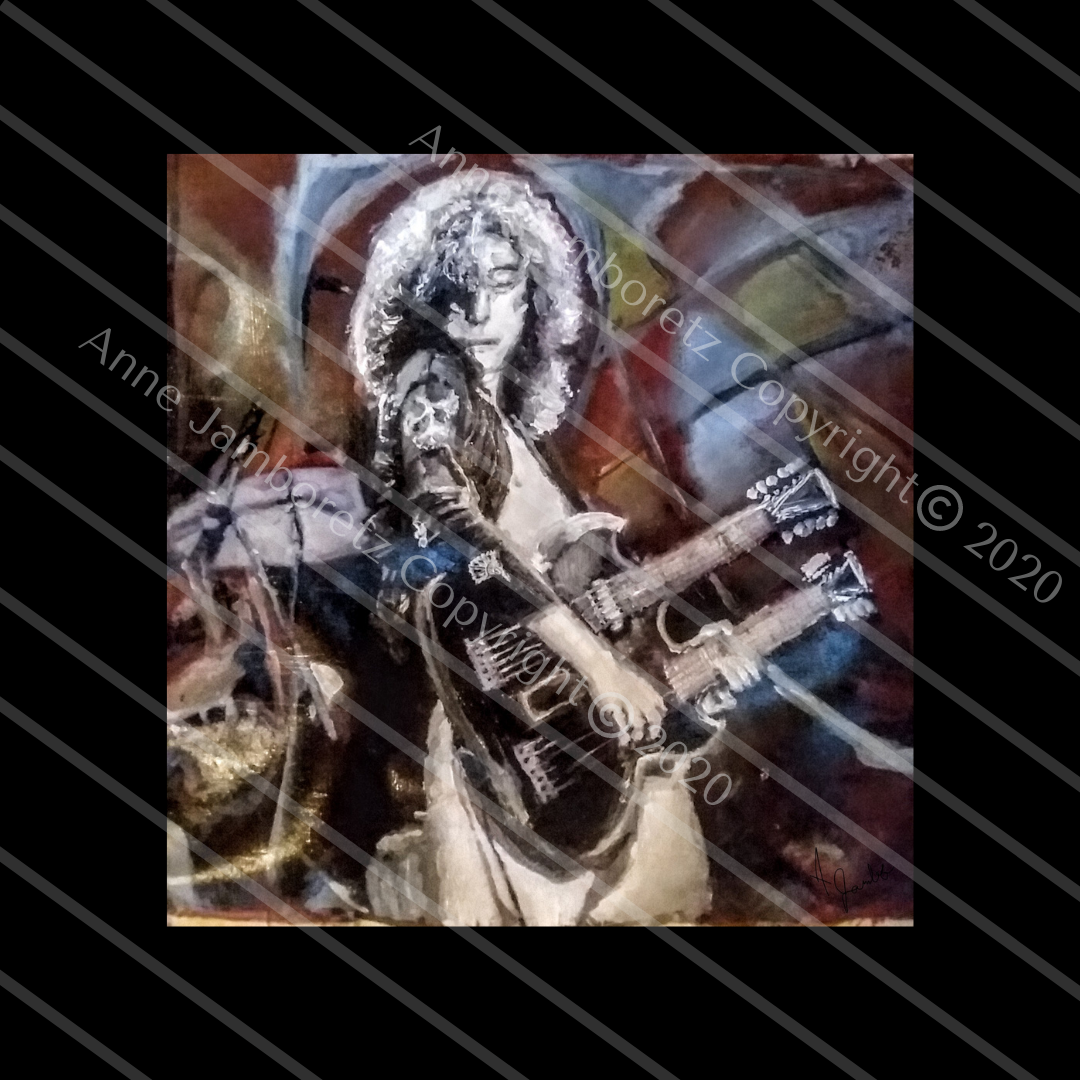
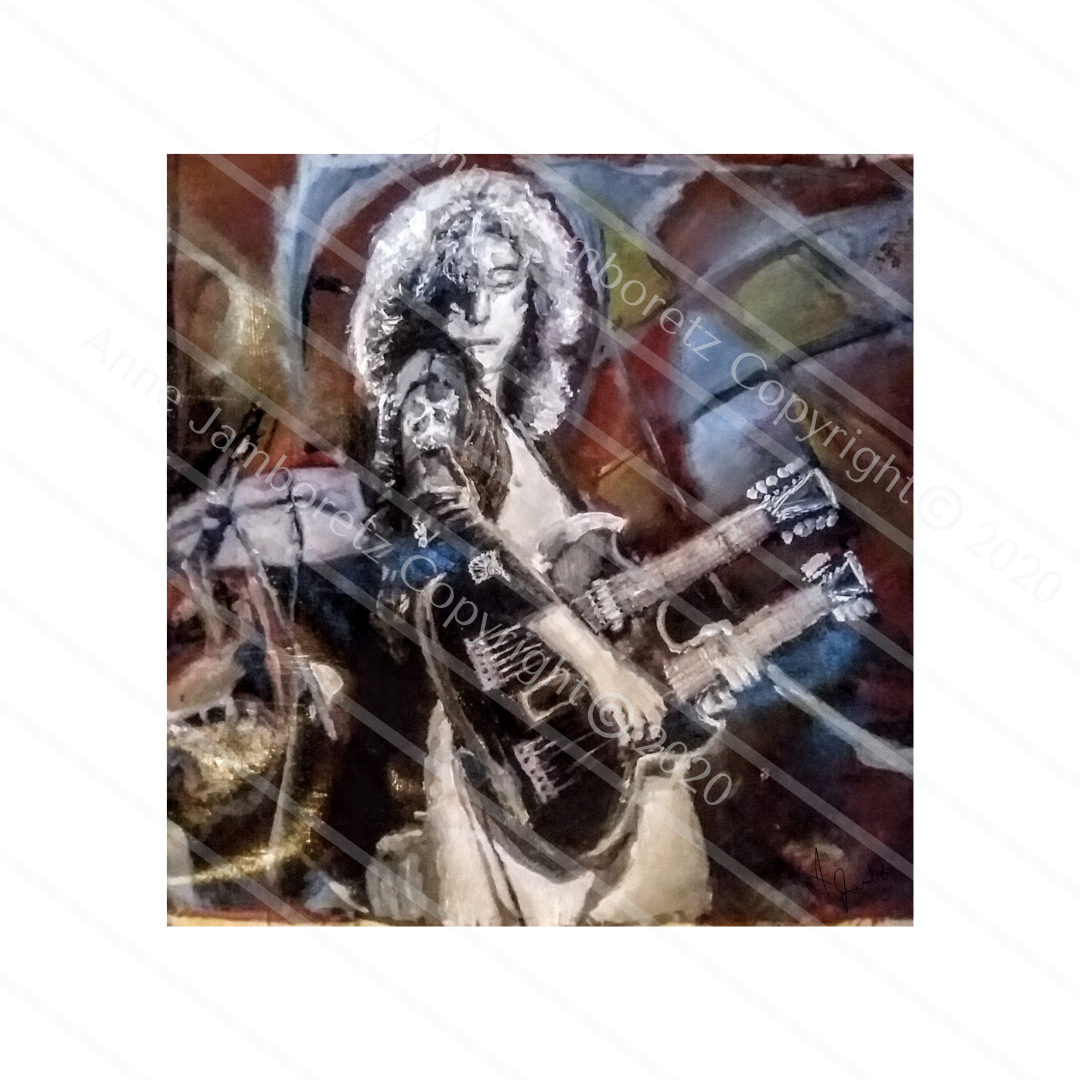
update images, text color, add custom descriiption Kid Cudi

diff --git a/src/components/pages/About.js b/src/components/pages/About.js
@@ -7,33 +7,34 @@ export default class About extends Component {
     render() {
         return (
             <div className="Body m-5 my-center">
-                <h1>
+                {/* <h1>
                     Background
-                </h1>
-                <br></br>
+                </h1> */}
+                {/* <br></br>
                 <p>< GiBeveledStar /></p>
-                <br></br>
+                <br></br> */}
                 <img className='profile-pic' src='anne_profilepic.png' alt='profile-pic'></img>
-                <br></br>
+                {/* <br></br>
                 <br></br>
                 <br></br>
                 <p>< GiBeveledStar /></p>
+                <br></br> */}
+                <p className="description">ART SHOWINGS</p>
+                <p className="description"><a href="http://www.boiseartmuseum.org/exhibition/higher-ground-2019/">Boise Art Museum, Higher Ground, 2019</a></p>
                 <br></br>
-                <p>ART SHOWINGS</p>
-                <p><a href="http://www.boiseartmuseum.org/exhibition/higher-ground-2019/">Boise Art Museum, Higher Ground, 2019</a></p>
+                <p className="description">CUSTOM PIECES</p>
+                <p className="description">Toby, pet dog</p>
+                <p className="description">Scruffy, pet dog</p>
+                <p className="description">Kid Cudi</p>
                 <br></br>
-                <p>CUSTOM PIECES</p>
-                <p>Toby, pet dog</p>
-                <p>Scruffy, pet dog</p>
-                <br></br>
-                <p>ABOUT</p>
-                <p>
+                <p className="description">ABOUT</p>
+                <p className="description">
                     Anne is a young, up and coming artist in Boise, Idaho. She specializes in oil paintings and drawings inspired by photographs, music and her imagination.
                     She depicts images in an impressionistic and expressionistic manner, and emphasizing certain parts of the image she finds important or for aesthetic purposes.
                     Her awe-provoking style is realistic, abstract or bridges the two.
                     When she's not painting or drawing, she may be at work as a line cook, running in the Boise Foothills or playing the saxaphone.</p>
                 <br></br>
-                <p>< GiBeveledStar /></p>
+                <p className="description">< GiBeveledStar /></p>
             </div>
         );
     }

diff --git a/src/components/pages/Contact.js b/src/components/pages/Contact.js
@@ -8,17 +8,22 @@ export default class Contact extends Component {
     render() {
         return (
             <div className="Body m-5 my-center">
-                <h1>
+                {/* <h1>
                     Contact
-                </h1>
+                </h1> */}
                 <br></br>
-                <p>< GiBeveledStar /></p>
                 <br></br>
-                <p>
+                <br></br>
+                <br></br>
+                <br></br>
+                <br></br>
+                <p className="description">< GiBeveledStar /></p>
+                <br></br>
+                <p className="description">
                     To inquire about custom pieces or prints, or display art at your business, please email anne.jamboretz@gmail.com.
                 </p>
                 <br></br>
-                <p>< GiBeveledStar /></p>
+                <p className="description">< GiBeveledStar /></p>
 
             </div>
         );

diff --git a/src/components/pages/pagestyle.css b/src/components/pages/pagestyle.css
@@ -1,10 +1,14 @@
 .Body {
-    color: white;
-    background-color: black;
+    color: rgba(0,0,0,.5);
+    background-color: white;
     text-align: center;
     align-items: center;
     margin-top: auto;
     margin-bottom: auto;
+}
+
+p {
+    color: rgba(0,0,0,.5)
 }
 
 .carousel-item {
@@ -30,9 +34,21 @@
     /* background: rgba(0, 0, 0, 0.6) */
 }
 
+p {
+    color: white
+}
+
+.description {
+    color: rgba(0,0,0,.5);
+}
+
 @media screen and (max-width: 415px) {
     .img {
-        width: 90%;
+        width: 100%;
+    }
+
+    p {
+        color: rgba(0,0,0,.5)
     }
 
     .profile-pic {

diff --git a/src/components/pages/Portfolio.js b/src/components/pages/Portfolio.js
@@ -8,9 +8,9 @@ export default class Portfolio extends Component {
     render() {
         return (
             <div className="Body m-5">
-                <h1>
+                {/* <h1>
                     Portfolio
-                </h1>
+                </h1> */}
                 <br></br>
                 <ImageCarousel />
                 <br></br>

diff --git a/src/index.css b/src/index.css
@@ -1,7 +1,7 @@
 body {
   margin: 0;
   font-family: 'Noto Sans JP', sans-serif;
-  background-color: black;
+  background-color: white;
   -webkit-font-smoothing: antialiased;
   -moz-osx-font-smoothing: grayscale;
 }
